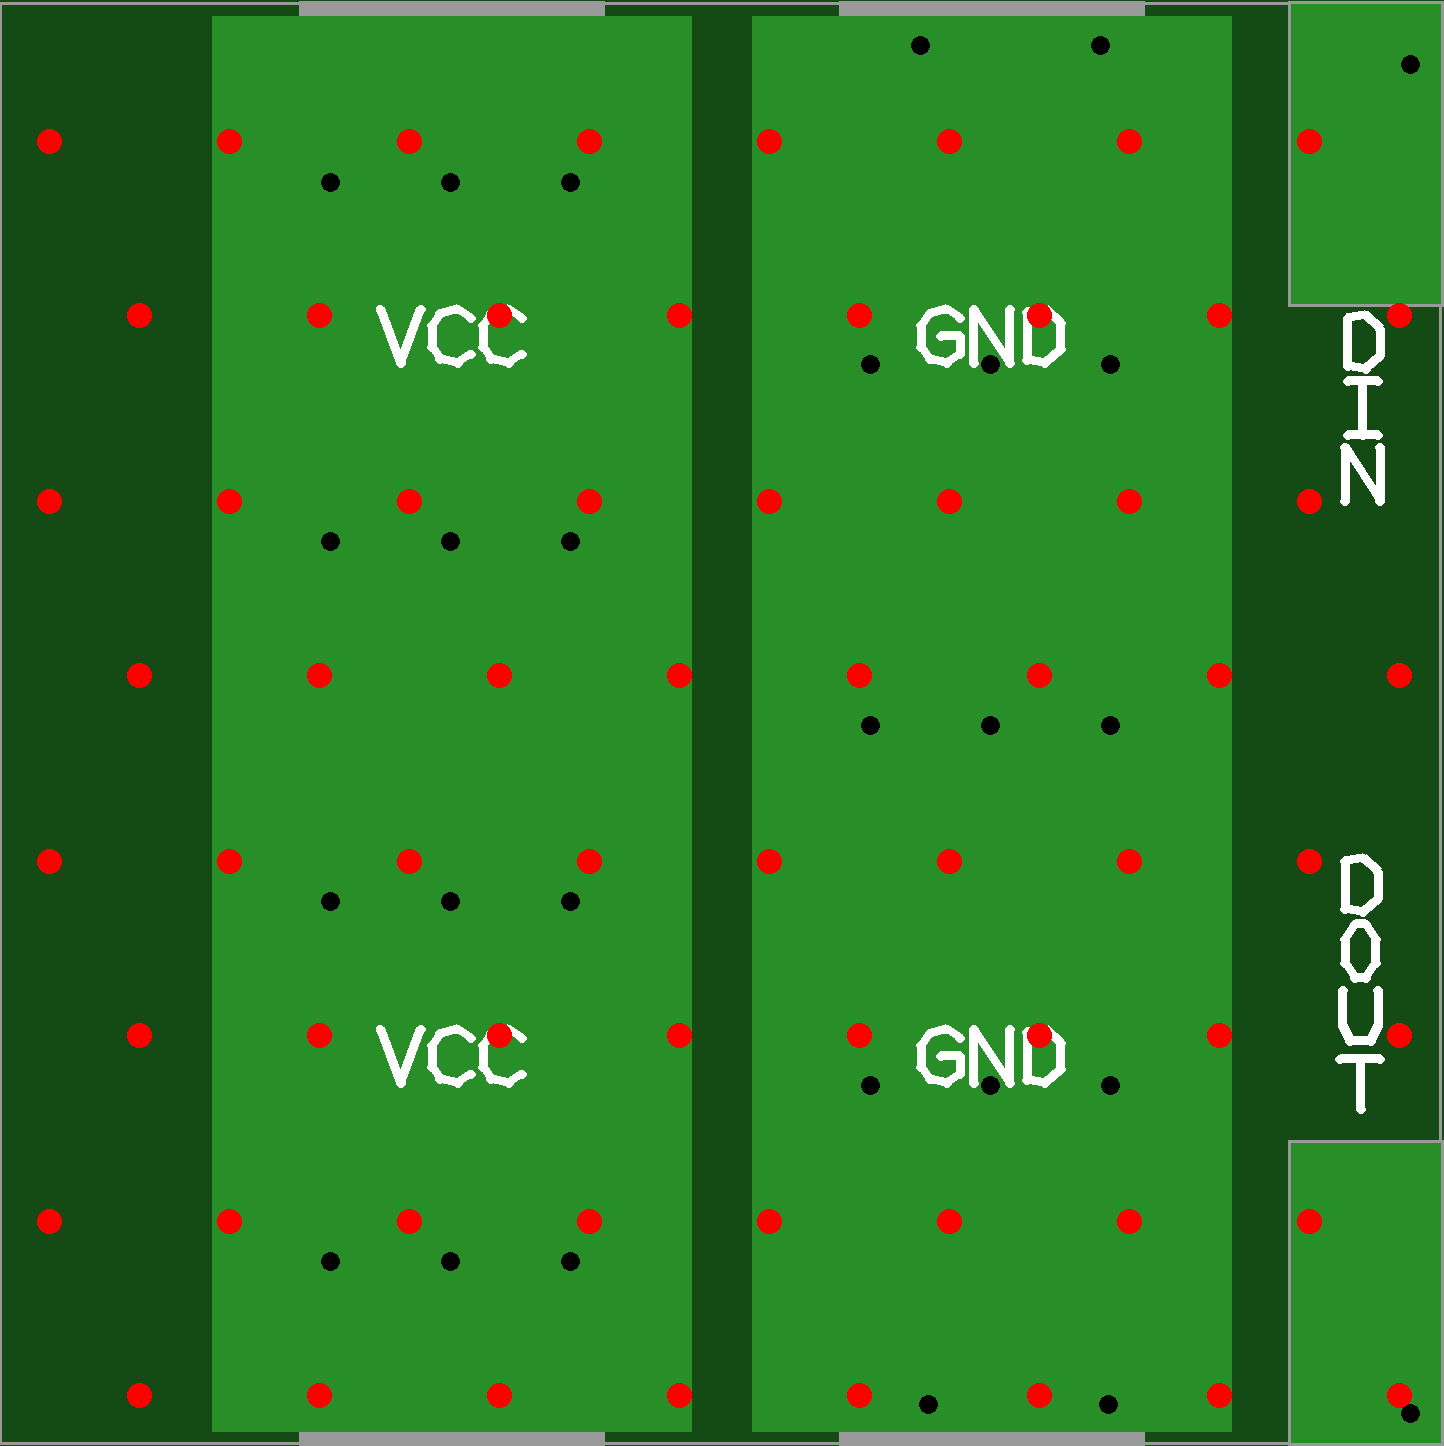
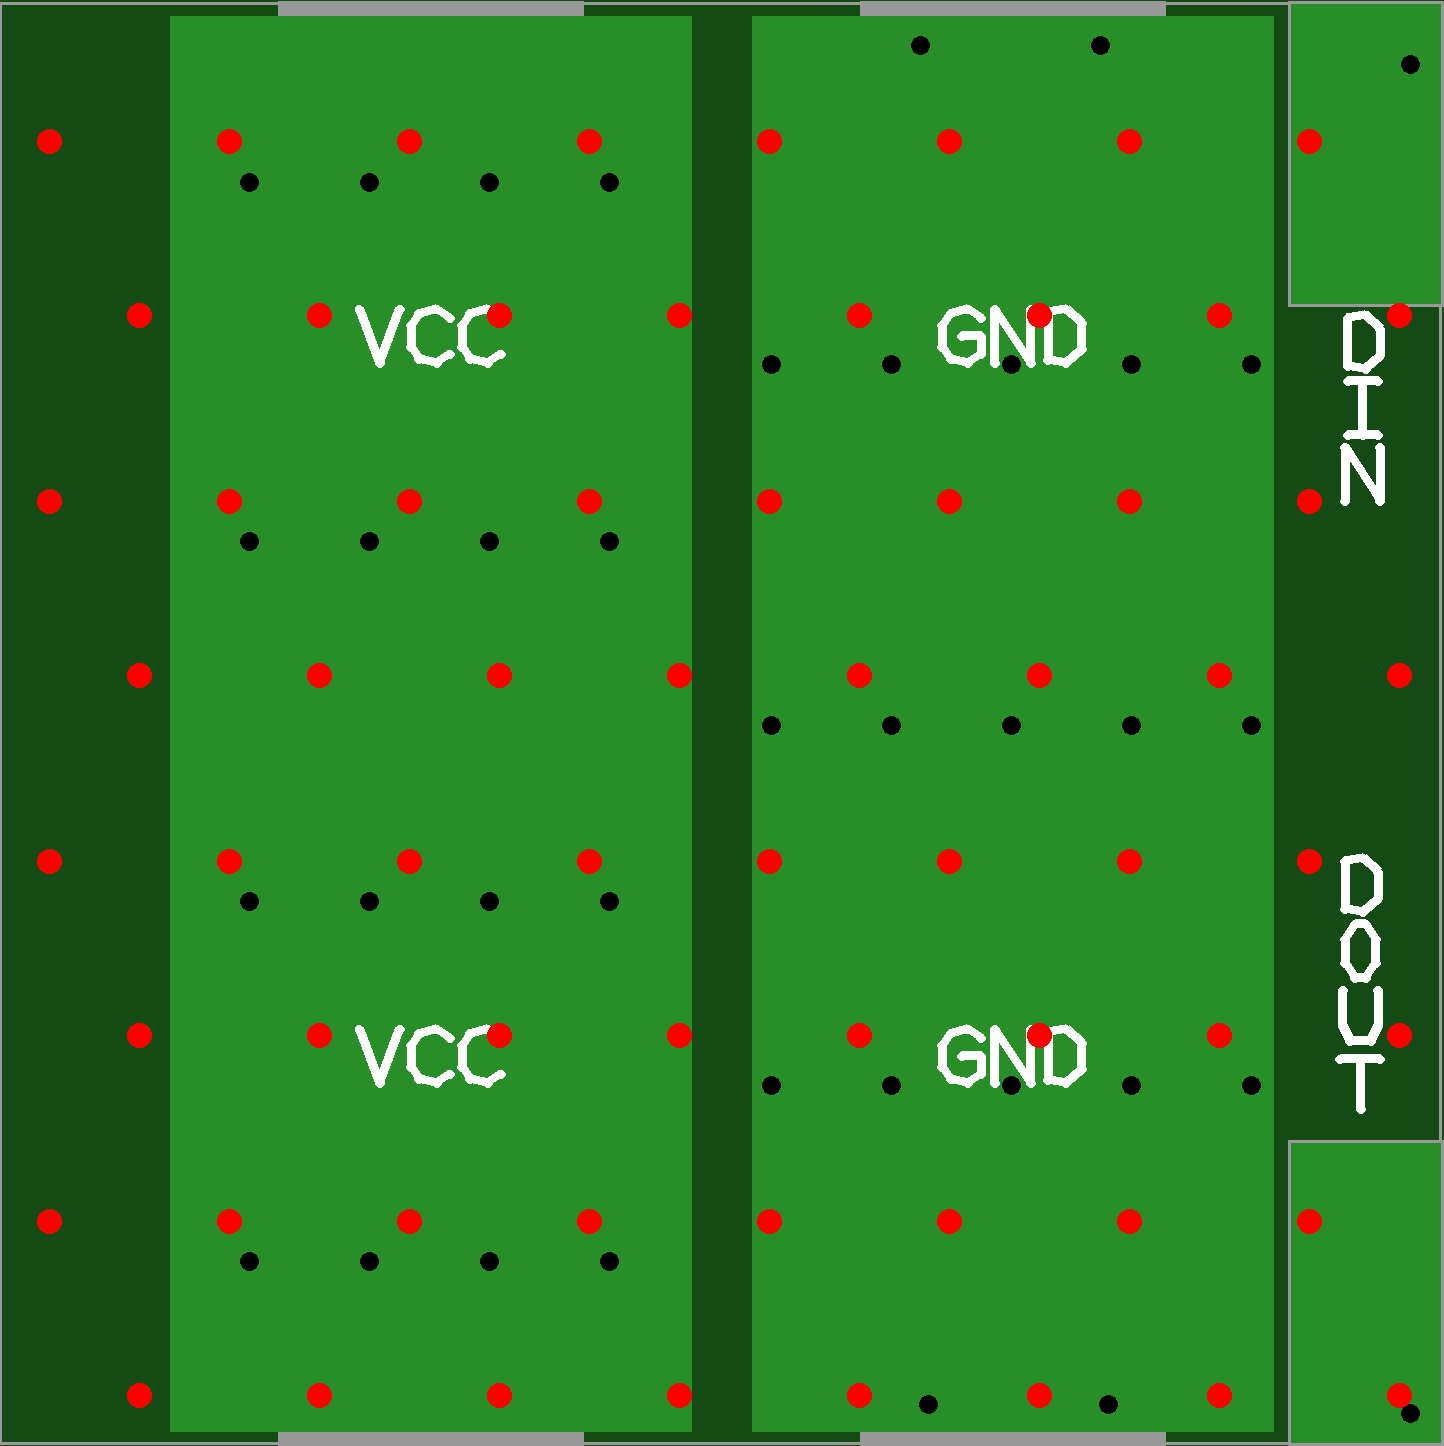
F.Cu-Schienen + Randzonen dynamisch max. Breite (Luecke - 2x Clearance), Stitch-Vias dynamisch (2mm-Raster, min 3, array fortgesetzt); docs/README aktualisiert (v13)

diff --git a/src/power_grid.py b/src/power_grid.py
@@ -119,11 +119,14 @@ def compute_power_grid(leds, fp, W: float, H: float, pitch: float) -> dict:
         net = "VCC" if nets_up == {"VDD"} else "GND"
         stub_x = [x for s, x, e, w, h in dn + up if s in ("VDD", "GND")]
         y = (min(y_up_edge) + max(y_dn_edge)) / 2.0
+        # Dynamische Breite: maximale Leiterbahnbreite der Luecke
+        # (Pad-Kanten-Abstand beider Reihen - 2x Clearance).
+        w_rail = (min(y_up_edge) - max(y_dn_edge)) - 2 * DR.CLEARANCE
         # Abschluss buendig mit der aeussersten Stichleitung (nicht Padkante)
         rails_top.append({"net": net, "y": y,
                           "x0": min(stub_x) - STUB_W / 2,
                           "x1": max(stub_x) + STUB_W / 2,
-                          "w": RAIL_TOP_W,
+                          "w": w_rail,
                           "stubs": [(x, e) for s, x, e, w, h in dn + up
                                     if s in ("VDD", "GND")]})
 
@@ -149,15 +152,20 @@ def compute_power_grid(leds, fp, W: float, H: float, pitch: float) -> dict:
             raise RuntimeError(f"Randzone-Netz nicht eindeutig: {nets}")
         net = "VCC" if nets == {"VDD"} else "GND"
         pw = [(x, e) for s, x, e, w, h in pads if s in ("VDD", "GND")]
+        # Dynamische Breite: Platz zwischen Pad-Kante (+Clearance) und
+        # Boardrand (-EDGE_CLEAR). Bei p3 ergibt das exakt die bisherigen
+        # 0.3mm, bei groesserem Pitch breitere Randzonen-Schienen.
         if up:   # ueber der Reihe
-            y = max(e for _, e in pw) + DR.CLEARANCE + RAIL_EDGE_W / 2
+            w_edge = (H - DR.EDGE_CLEAR) - (max(e for _, e in pw) + DR.CLEARANCE)
+            y = max(e for _, e in pw) + DR.CLEARANCE + w_edge / 2
         else:
-            y = min(e for _, e in pw) - DR.CLEARANCE - RAIL_EDGE_W / 2
+            w_edge = (min(e for _, e in pw) - DR.CLEARANCE) - DR.EDGE_CLEAR
+            y = min(e for _, e in pw) - DR.CLEARANCE - w_edge / 2
         # Abschluss buendig mit der aeussersten Stichleitung
         rails_top.append({"net": net, "y": y,
                           "x0": min(x for x, _ in pw) - STUB_W / 2,
                           "x1": max(x for x, _ in pw) + STUB_W / 2,
-                          "w": RAIL_EDGE_W, "stubs": pw, "edge": True})
+                          "w": w_edge, "stubs": pw, "edge": True})
 
     edge_rail(by_row[top_row], up=True)
     edge_rail(by_row[bot_row], up=False)
@@ -183,9 +191,16 @@ def compute_power_grid(leds, fp, W: float, H: float, pitch: float) -> dict:
             for x, y in cands[:2]:
                 stitch_vias.append((x, y, rail["net"], EDGE_VIA_PAD))
             continue
-        for i in range(N_STITCH):
-            x = cx + (i - (N_STITCH - 1) / 2.0) * STITCH_DX
-            if rail["x0"] + 0.35 <= x <= rail["x1"] - 0.35:
+        # Dynamisch: 2mm-Raster, so viele Vias wie in den Ueberlappungs-
+        # bereich von F.Cu-Schiene und B.Cu-Rail passen (mindestens N_STITCH).
+        rx0, rx1 = rail_cx_bounds[rail["net"]]
+        lo = max(rail["x0"], rx0) + 0.35
+        hi = min(rail["x1"], rx1) - 0.35
+        n = max(N_STITCH, int((hi - lo) // STITCH_DX) + 1)
+        mid = (lo + hi) / 2.0
+        for i in range(n):
+            x = mid + (i - (n - 1) / 2.0) * STITCH_DX
+            if lo - 1e-9 <= x <= hi + 1e-9:
                 stitch_vias.append((x, rail["y"], rail["net"],
                                     DR.VIA_PAD_D))
 
@@ -235,6 +250,8 @@ if __name__ == "__main__":
     assert len(pg["rails_top"]) == 9, "7 Luecken + 2 Randzonen"
     seq = [n[0] for n in nets]
     assert seq.count("GND") == 5 and seq.count("VCC") == 4, seq
-    assert len(pg["stitch_vias"]) == 7 * 3 + 2 * 2, "7x3 Innen + 2x2 Rand"
-    print("OK: 9 Schienen (5x GND, 4x VCC), %d Stitch-Vias"
-          % len(pg["stitch_vias"]))
+    assert len(pg["stitch_vias"]) >= 7 * 3 + 2 * 2, "min. 7x3 Innen + 2x2 Rand"
+    ws = [r["w"] for r in pg["rails_top"] if not r.get("edge")]
+    assert all(abs(w - 1.05) < 1e-3 for w in ws), ws  # p3: Luecke 1.35 - 2x CLR
+    print("OK: 9 Schienen (5x GND, 4x VCC), %d Stitch-Vias, Innen-Breite %.2fmm"
+          % (len(pg["stitch_vias"]), ws[0]))

diff --git a/README.md b/README.md
@@ -23,15 +23,16 @@ Ausdrücklich generiert, geprüft und verifiziert (Stand Okt 2026):
 | Was | Ergebnis |
 |---|---|
 | **LED:** XL-1615RGBC-WS2812B-S, LCSC **C41413180** (WS2812B-kompatibel, 1.6×1.7 mm) | ✅ |
-| **8×8-Matrix, Pitch 3.0 mm** → Board 24×24 mm (ZIP `XL-1615_8x8_v12`) | ✅ |
+| **8×8-Matrix, Pitch 3.0 mm** → Board 24×24 mm (ZIP `XL-1615_8x8_v13`) | ✅ |
+| **8×8-Matrix, Pitch 5.0 mm** → Board 40×40 mm (dynamische Schienen/Vias, DRC OK) | ✅ |
 | **Dynamische Groessen** 5×4 bis 12×5, gerade + ungerade Zeilenzahl, je am kleinsten machbaren Pitch (DRC + Konnektivitaet) | ✅ |
 | Mindestgroesse: < 5×4 oder Rail-Breite < 2.5 mm → kontrollierter Abbruch | ✅ |
-| Geometrie-DRC (`src/drc_geometry.py`): Clearance, Randabstand, Bohrungsabstand, Netz-Zusammenhang | ✅ 573 Kupferobjekte, 67 Netze, 0 Probleme |
+| Geometrie-DRC (`src/drc_geometry.py`): Clearance, Randabstand, Bohrungsabstand, Netz-Zusammenhang | ✅ 593 Kupferobjekte, 37 Bohrungen, 67 Netze, 0 Probleme |
 | Verbindungscheck (`tools/check_connectivity.py`): GND-, VCC- und Datenketten-Zusammenhang über alle Lagen | ✅ alle Netze zusammenhängend |
 | Machbarkeit (`src/feasibility.py`): kleinster machbarer Pitch größenabhängig (ungerade Zeilen **2.95 mm**, gerade Zeilen **3.0 mm** – Randzonen-Schiene an 90°-gedrehten Reihen) | ✅ |
 | Footprint gegen LCSC-API und Datenblatt verifiziert (Pads 0.45×0.65 mm) | ✅ |
 | JLCPCB **Economy**-Bestückung: keine Castellations, Bohrung ≥ 0.3 mm, Standard-Limits ohne Aufpreis | ✅ eingehalten |
-| Masken: alle 27 Bohrungen beidseitig maskenfrei (kein tenting → in 2D- und 3D-Ansicht sichtbar) | ✅ |
+| Masken: alle Bohrungen beidseitig maskenfrei (kein tenting → in 2D- und 3D-Ansicht sichtbar) | ✅ |
 
 **Nicht (mehr) getestet:** SK9822-EC20 / SPI-LEDs. Die aktuelle Pipeline (v2) ist
 auf die 4-Pin-WS2812-Topologie (C41413180) ausgelegt. Die v1-Module
@@ -62,7 +63,9 @@ hochgeladen.
 Vorderseite (F.Cu):  LED-Pads; Datenkette auf F.Cu (45°-Diagonalen innerhalb
                      der Reihe, direkte Vertikale zwischen den Reihen);
                      EINE horizontale Stromschiene je Reihenluecke,
-                     alternierend GND/VCC; je 3 Stitch-Vias (2 mm Abstand);
+                     alternierend GND/VCC, Breite = max. Platz der Luecke
+                     (Pad-Abstand - 2x Clearance); Stitch-Vias im 2-mm-Raster,
+                     mindestens 3 pro Schiene, mehr wenn Platz;
                      kleine Netzlabels (+V / G) mittig auf den Schienen
 Rückseite  (B.Cu):   ZWEI vertikale Haupt-Rails GND/VCC, mittig, maximale
                      Breite (abzgl. DIN/DOUT-Anschlusspads, Minimum 2.5 mm); Anschlusspads DIN/DOUT (2.5×5 mm) und
@@ -87,7 +90,7 @@ Schiene versorgt; die Schienen enden bündig mit der letzten Stichleitung.
 | Clearance Leitung↔Leitung | 0.15 mm je Seite |
 | Randabstand Kupfer | 0.20 mm (randbündige Anschlusspads: bewusst ausgenommen) |
 | Datenleitung | 0.15 mm |
-| Schienen F.Cu / B.Cu | 0.40 mm / max. Breite (Boardbreite − GAP − Anschlusspads − Clearance), Minimum 2.5 mm sonst Abbruch |
+| Schienen F.Cu / B.Cu | dynamisch max.: Lückenbreite − 2×Clearance bzw. Boardbreite − GAP − Anschlusspads; Minima 0.4 mm / 2.5 mm sonst Abbruch |
 
 ## Prüfwerkzeuge
 

diff --git a/docs/example_8x8/README.md b/docs/example_8x8/README.md
@@ -13,7 +13,7 @@ WS2812B-kompatibel). Ergebnis: **24 × 24 mm** Platinen, nahtlos kachelbar.
 ```bash
 python src/fetch_component.py C41413180        # Footprint laden (einmalig)
 python src/generate.py --cols 8 --rows 8 --pitch 3.0 --lcsc C41413180 \
-    --output output/XL-1615_8x8_v12.zip
+    --output output/XL-1615_8x8_v13.zip
 ```
 
 oder mit dieser Config: [`cfg/XL-1615_8x8.cfg`](../../cfg/XL-1615_8x8.cfg)
@@ -22,17 +22,17 @@ oder mit dieser Config: [`cfg/XL-1615_8x8.cfg`](../../cfg/XL-1615_8x8.cfg)
 
 | Prüfung | Kommando | Ergebnis |
 |---|---|---|
-| Machbarkeit | `python src/feasibility.py C41413180 8 8` | ✅ Pitch 3.0 ≥ Minimum 2.95 mm |
-| Geometrie-DRC | `python src/drc_geometry.py 3.0 8 8` | ✅ 573 Kupferobjekte, 67 Netze, 0 Verstöße |
+| Machbarkeit | `python src/feasibility.py C41413180 8 8` | ✅ Pitch 3.0 = Minimum (gerade Zeilenzahl) |
+| Geometrie-DRC | `python src/drc_geometry.py 3.0 8 8` | ✅ 593 Kupferobjekte, 37 Bohrungen, 67 Netze, 0 Verstöße |
 | Netz-Zusammenhang | `python tools/check_connectivity.py` | ✅ GND/VCC/Datenkette durchgängig |
-| Masken | ZIP-Parse GTS/GBS | ✅ alle 27 Via-Bohrungen beidseitig offen |
+| Masken | ZIP-Parse GTS/GBS | ✅ alle Via-Bohrungen beidseitig offen |
 | Footprint | LCSC-API + Datenblatt | ✅ Pads 0.45×0.65 mm, 1.70×1.60 mm Kupfer |
 
 ## Inhalt
 
 | Datei | Beschreibung |
 |---|---|
-| [`XL-1615_8x8_v12.zip`](XL-1615_8x8_v12.zip) | Fertigungsdaten (Gerber + Drill + BOM + CPL), direkt bei JLCPCB hochladbar |
+| [`XL-1615_8x8_v13.zip`](XL-1615_8x8_v13.zip) | Fertigungsdaten (Gerber + Drill + BOM + CPL), direkt bei JLCPCB hochladbar |
 | [`render_front.png`](render_front.png) | Eigener PNG-Render, Vorderseite (LED-Pads, Datenkette, Reihenschienen) |
 | [`render_back.png`](render_back.png) | Eigener PNG-Render, Rückseite (mittige GND/VCC-Rails, Anschlusspads, Beschriftung) |
 | [`jlcpcb_preview_top.png`](jlcpcb_preview_top.png) | 2D-Preview aus dem JLCPCB-Viewer, Oberseite |
